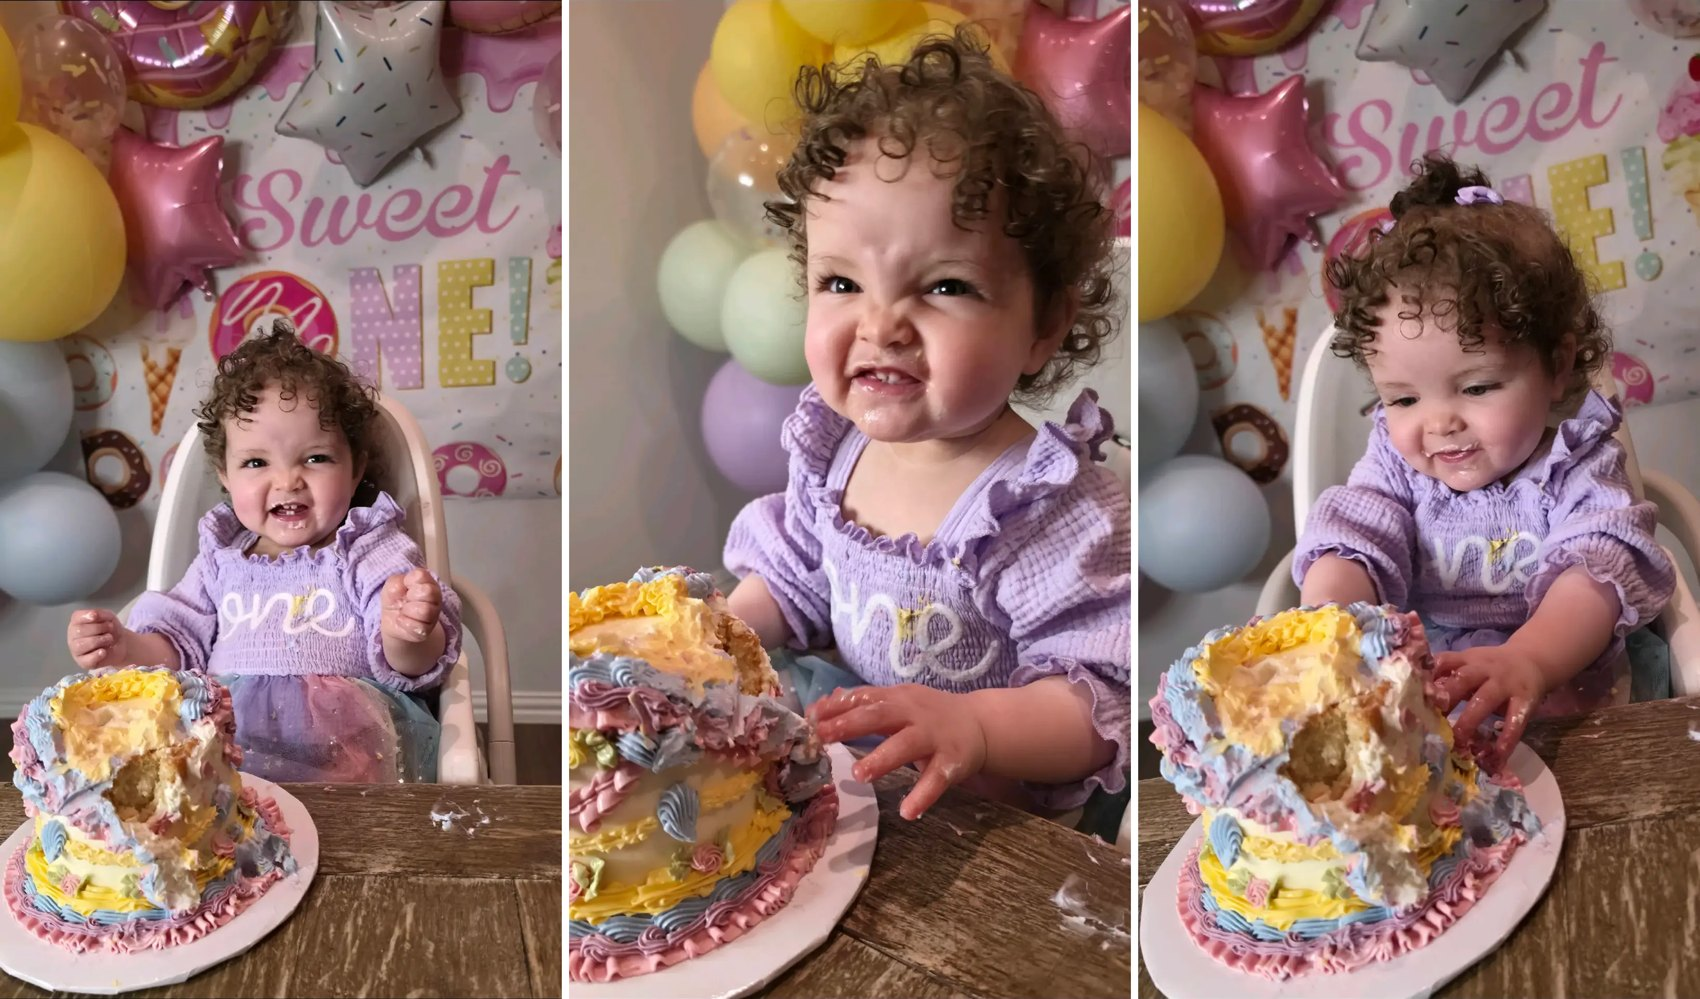
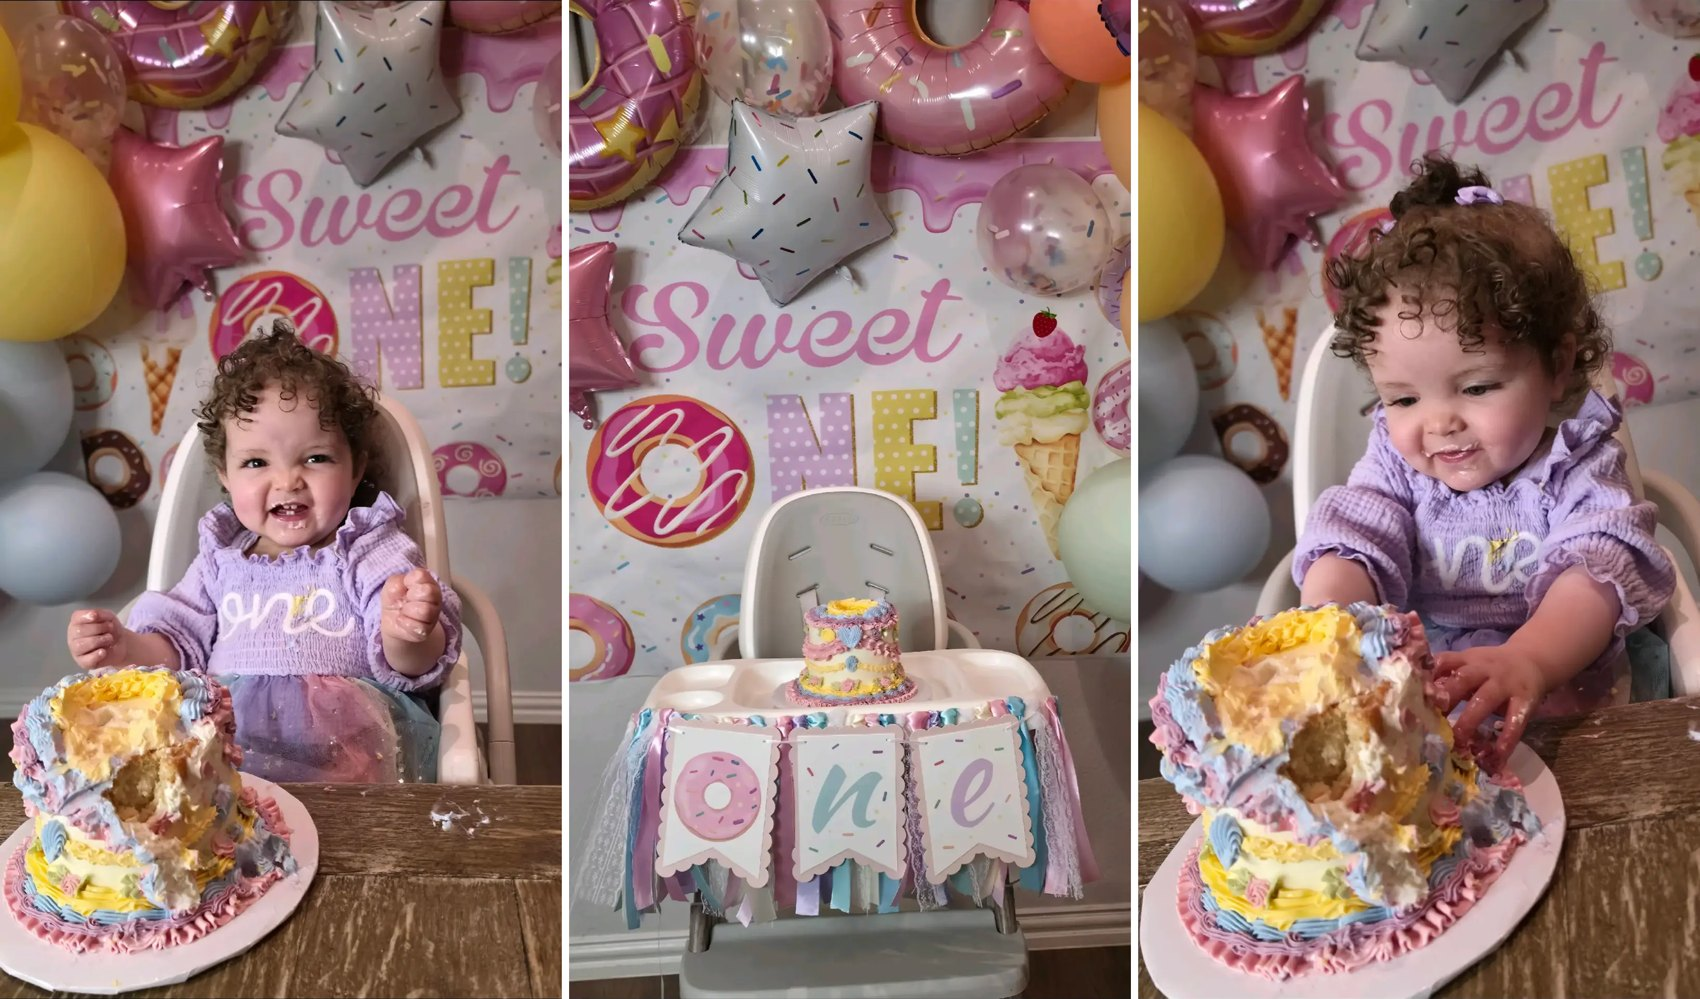
Birthday post: smash cake photo in middle of top photo
Claude-Session: https://claude.ai/code/session_01CXUxTZZBRhio4oJKXsYzKV

diff --git a/boutique.src.html b/boutique.src.html
@@ -2073,7 +2073,7 @@ if(/(^|\.)batternlife\.com$|pages\.dev$/.test(location.hostname))return;
 })();</script>
 <script>(function(){if(/(^|\.)batternlife\.com$|pages\.dev$/.test(location.hostname))return;document.documentElement.classList.add('pvm')})();</script>
 <script>(function(){var f=document.querySelector('.mfilter');if(!f)return;var bs=f.querySelectorAll('[data-mf]'),cards=document.querySelectorAll('.mnote');[].forEach.call(bs,function(b){b.onclick=function(){[].forEach.call(bs,function(y){y.setAttribute('aria-selected',y===b?'true':'false')});var c=b.dataset.mf;[].forEach.call(cards,function(n){n.classList.toggle('mf-hide',c!=='all'&&n.dataset.cat!==c)})}})})();</script>
-<dialog class="ndialog" id="note-m7" aria-label="Julianna's First Birthday: Our Little Sweet One!"><button type="button" class="nd-x" aria-label="Close" data-nclose>×</button><div class="nd-img"><img src="@@mom_bday_header@@" alt="Three photos of Julianna in a lavender outfit smashing her pastel first birthday cake" loading="lazy"></div><div class="nd-body"><span class="note-date"><span data-mjs>The Mom Diaries</span> · Family Fun · Oct 16, 2026</span><h2>Julianna's First Birthday: Our Little Sweet One!</h2><p>I seriously cannot believe Julianna is already ONE! September 29th marked a whole year since we welcomed our fourth and final baby into the family. A whole year! I feel like I blinked and suddenly we're celebrating her first birthday. Where did the time go?!</p><p>For her first birthday, we decided to keep things small and celebrate with just our immediate family. No big party or huge guest list. Just the six of us celebrating our little girl.</p><p>We went with an adorable "Sweet One" theme and decorated for the occasion. Of course, being a baker, I had to make her a smash cake! I've made countless birthday cakes over the years, but making one for my own baby, especially for her very first birthday, meant a little more to me.</p><div class="nd-collage c2"><img src="@@mom_bday_cake@@" alt="Julianna's pastel smash cake on her high chair tray in front of the Sweet One backdrop" loading="lazy" style="object-position:center 60%"><img src="@@mom_bday_setup@@" alt="Julianna in her high chair with the Sweet One backdrop, donut balloons and her smash cake" loading="lazy" style="object-position:center 50%"></div><p>We also managed to get some really cute pictures of Julianna, which I'm so happy about! I know these are the photos I'll be looking back at years from now, wishing I could go back and hold her at this age just one more time.</p><figure class="nd-fig tall"><img src="@@mom_bday_side@@" alt="Julianna laughing with frosting on her face during her cake smash" loading="lazy"></figure><p>I shared two videos from her birthday on social media, and both did really well! It was exciting to see so many people enjoying those little moments from her special day.</p><p>I think what gets me the most about her turning one is knowing she's our last baby. I've experienced all these firsts with my other three children, but this time feels different. Every milestone is another reminder that this chapter of our lives is slowly changing. I'm excited to watch her grow, but there's definitely a part of me that wishes time would slow down just a little.</p><p>Her birthday wasn't anything extravagant, and it didn't need to be. We decorated, had cake, took pictures, and celebrated together as a family. Sometimes those simple moments end up meaning the most.</p><p>One year down, a lifetime of birthdays to go. I can't wait to see the little person Julianna becomes, but for now, I'm just trying to enjoy every bit of this stage while I still can.</p><p>Happy first birthday to our little Sweet One! You'll always be our baby, no matter how big you get.</p><p class="nd-sign">xo, Melinda</p></div></dialog>
+<dialog class="ndialog" id="note-m7" aria-label="Julianna's First Birthday: Our Little Sweet One!"><button type="button" class="nd-x" aria-label="Close" data-nclose>×</button><div class="nd-img"><img src="@@mom_bday_header@@" alt="Julianna laughing at her cake smash, her pastel smash cake on the high chair, and Julianna digging into the cake" loading="lazy"></div><div class="nd-body"><span class="note-date"><span data-mjs>The Mom Diaries</span> · Family Fun · Oct 16, 2026</span><h2>Julianna's First Birthday: Our Little Sweet One!</h2><p>I seriously cannot believe Julianna is already ONE! September 29th marked a whole year since we welcomed our fourth and final baby into the family. A whole year! I feel like I blinked and suddenly we're celebrating her first birthday. Where did the time go?!</p><p>For her first birthday, we decided to keep things small and celebrate with just our immediate family. No big party or huge guest list. Just the six of us celebrating our little girl.</p><p>We went with an adorable "Sweet One" theme and decorated for the occasion. Of course, being a baker, I had to make her a smash cake! I've made countless birthday cakes over the years, but making one for my own baby, especially for her very first birthday, meant a little more to me.</p><div class="nd-collage c2"><img src="@@mom_bday_scrunch@@" alt="Julianna making a funny face during her cake smash" loading="lazy" style="object-position:center 35%"><img src="@@mom_bday_setup@@" alt="Julianna in her high chair with the Sweet One backdrop, donut balloons and her smash cake" loading="lazy" style="object-position:center 50%"></div><p>We also managed to get some really cute pictures of Julianna, which I'm so happy about! I know these are the photos I'll be looking back at years from now, wishing I could go back and hold her at this age just one more time.</p><figure class="nd-fig tall"><img src="@@mom_bday_side@@" alt="Julianna laughing with frosting on her face during her cake smash" loading="lazy"></figure><p>I shared two videos from her birthday on social media, and both did really well! It was exciting to see so many people enjoying those little moments from her special day.</p><p>I think what gets me the most about her turning one is knowing she's our last baby. I've experienced all these firsts with my other three children, but this time feels different. Every milestone is another reminder that this chapter of our lives is slowly changing. I'm excited to watch her grow, but there's definitely a part of me that wishes time would slow down just a little.</p><p>Her birthday wasn't anything extravagant, and it didn't need to be. We decorated, had cake, took pictures, and celebrated together as a family. Sometimes those simple moments end up meaning the most.</p><p>One year down, a lifetime of birthdays to go. I can't wait to see the little person Julianna becomes, but for now, I'm just trying to enjoy every bit of this stage while I still can.</p><p>Happy first birthday to our little Sweet One! You'll always be our baby, no matter how big you get.</p><p class="nd-sign">xo, Melinda</p></div></dialog>
 <dialog class="ndialog" id="note-m1" aria-label="A Little Slice of My Life"><button type="button" class="nd-x" aria-label="Close" data-nclose>×</button><div class="nd-img"><img src="@@mom_welcome@@" alt="Open journal with handwritten notes, a pink pen, hot cocoa and pink hydrangeas on a wooden table" loading="lazy"></div><div class="nd-body"><span class="note-date"><span data-mjs>The Mom Diaries</span> · Real Life · Oct 20, 2026</span><h2>A Little Slice of My Life</h2><p>If you've been following me for a while, you probably know how much I love baking! But there's a whole lot more to my life than cakes and desserts.</p><p>For starters, I absolutely love cooking, too! Whether I'm trying new recipes, preparing homemade meals, or experimenting with something different, the kitchen is definitely one of my favorite places to be.</p><p>Outside of the kitchen, I'm a wife, a mom of four, and a homeschooling mama! With kids ranging from a teenager to a toddler, life around here is anything but boring. Between homeschooling, family activities, cooking, cleaning, and everything else that comes with raising a family of six, there's always something going on. And trust me, not everything goes according to plan!</p><p>We're also building our new home, which has been an exciting adventure of its own. I can't wait to share bits and pieces of that journey, especially our new kitchen, decorating, organizing, and making our house feel like home.</p><h3>So, What's The Mom Diaries All About?</h3><p>I created The Mom Diaries to share more of the life happening behind the scenes.</p><p>Here, you'll find a little bit of everything: real-life motherhood moments, homeschooling experiences, family adventures, holidays, parenting tips, and lessons I've learned along the way.</p><p>Some entries might be helpful, others might make you laugh, and a few might simply be me sharing what's on my mind. I don't have all the answers, and I'm definitely not here to pretend that I do!</p><p>Whether you're a fellow mom, a homeschooling parent, or just someone who enjoys a relatable story, I hope you'll find something here that makes you smile, gives you an idea, or makes you feel a little more connected.</p><p>Welcome to The Mom Diaries!</p><p class="nd-sign">xo, Melinda</p></div></dialog>
 <dialog class="ndialog" id="note-m2" aria-label="A Little Clay, A Lot of Fun! Our Homeschool Pottery Field Trip"><button type="button" class="nd-x" aria-label="Close" data-nclose>×</button><div class="nd-img"><img src="@@mom_pottery@@" alt="Three kids holding up hand-shaped clay pumpkins at a pottery studio" loading="lazy"></div><div class="nd-body"><span class="note-date"><span data-mjs>The Mom Diaries</span> · Homeschool · Oct 21, 2026</span><h2>A Little Clay, A Lot of Fun! Our Homeschool Pottery Field Trip</h2><p>We recently took the kids on a homeschool field trip to Speckled Turtle Pottery Studio in Prosper, Texas, where we spent the afternoon getting creative and trying something new.</p><figure class="nd-fig"><img src="@@mom_pottery_store@@" alt="Speckled Turtle Pottery Studio + Boutique storefront in Prosper, Texas" loading="lazy"></figure><p>The trip was organized by a local homeschool community, and I believe our group may have received a discounted rate, although I'm not entirely sure.</p><p>Now, I'll admit, we went in thinking we'd be working with an actual pottery wheel. Instead, we were given a ball of clay to shape by hand. Not exactly what we had in mind, but we were excited to give it a try.</p><p>During our visit, we learned how to make little pumpkins and a leaf shaped tray. Unfortunately, the clay started drying out pretty quickly, which made it difficult to add some of the smaller details, like the vines on our pumpkins. It definitely made adding those finishing touches a little tricky.</p><p>But can I just say, my kids were naturals! They've always been great when it comes to art and anything creative. I guess it runs in the family. It was fun watching them figure out how to shape the clay and bring their ideas to life.</p><p>There were quite a few kids participating in the activity, but our instructor was still very helpful whenever we had questions. She explained the steps, offered guidance when we needed it, and even took the time to compliment the kids on their creations, which was really sweet.</p><p>This activity gave the kids a chance to practice patience, creativity, and working with their hands. And even though things didn't go exactly as we imagined, it was a good reminder that sometimes you just have to get creative and work with what you've got.</p><p>Overall, we enjoyed spending the afternoon trying something new together. It wasn't quite the pottery experience we had pictured, but the kids had fun, and we walked away with another homeschool memory to add to the books!</p><p class="nd-sign">xo, Melinda</p></div></dialog>
 <dialog class="ndialog" id="note-m6" aria-label="The Importance of Having Something That's Mine"><button type="button" class="nd-x" aria-label="Close" data-nclose>×</button><div class="nd-img"><img src="@@mom_mine@@" alt="A camera on a small tripod filming a frosted cake on a wooden board in a bright kitchen" loading="lazy"></div><div class="nd-body"><span class="note-date"><span data-mjs>The Mom Diaries</span> · Notes to Self · Nov 8, 2026</span><h2>The Importance of Having Something That's Mine</h2><p>Being a wife and a mom of four, I spend so much time worrying about everyone else that I sometimes forget about myself. I'm always thinking about what my husband and kids need, making sure everyone is happy, and taking care of whatever needs to get done. Somewhere in the middle of all that, I tend to put myself last.</p><p>I love my family and the life we've built together, but I've realized that doesn't mean I have to forget about myself. I still have my own interests, dreams, and goals I want to accomplish.</p><p>Now that I'm in my late 30s, I'm putting myself out there in ways I never thought I would. I'm setting goals I wouldn't have considered a few years ago, trying new things, and pushing myself outside my comfort zone. It's a little scary, but exciting!</p><p>Baking has always been something I genuinely enjoy. What started as a hobby eventually became my own little business. But lately, I've wanted to do more. With Batter N' Life, I'm exploring content creation, sharing my everyday life, writing these journal entries, and hoping to turn something I love into something bigger.</p><p>Of course, finding the time isn't always easy. Some days I have a whole list of things I want to accomplish, and absolutely none of them get done. My own plans are usually the first things I put aside.</p><p>But I'm trying to change that. I don't want to keep putting my goals on hold and telling myself I'll get around to them someday. I want to give myself a chance to see what I can accomplish.</p><p>I love being a wife and a mom of four, but I'm learning that it's okay to want something for myself, too.</p><p>A little reminder to myself: Stop waiting for the perfect time because there probably won't be one. Make time for yourself, even if it's just a little each day. Don't be afraid to try something new or talk yourself out of opportunities before giving them a chance. You don't need to have everything figured out. Just keep showing up for yourself because your dreams and goals matter, too.</p><p class="nd-sign">xo, Melinda</p></div></dialog>
